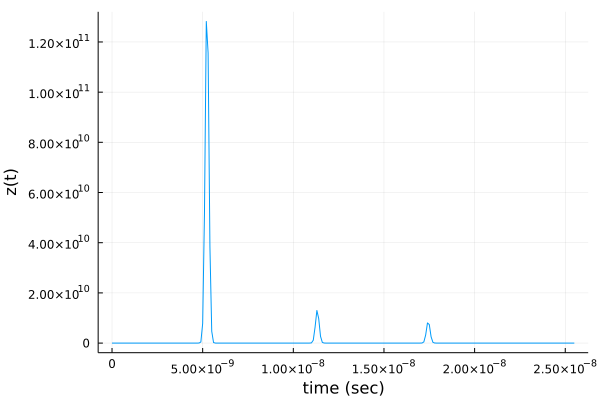
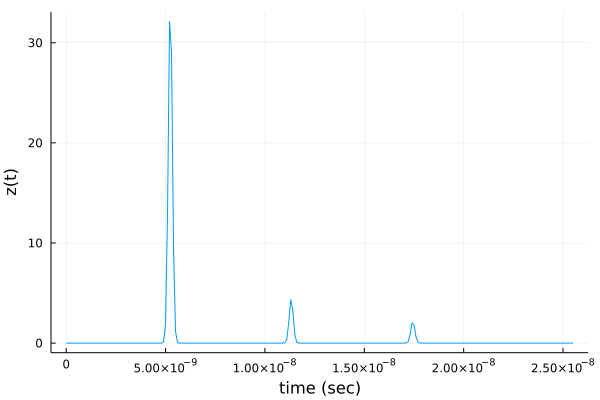
updated scenario C plots and formulation

diff --git a/docs/src/omniDirectionalLTI/omnidirLTIsource.md b/docs/src/omniDirectionalLTI/omnidirLTIsource.md
@@ -92,7 +92,7 @@ inverse2Dplot([q],[r],[z],f)
 * single stationary omnidirectional source
 * single stationary omnidirectional receiver
 * single stationary ideal point reflector
-* the source emits an ideal impulse
+* the source emits an impulse
 
 Given the scenario B assumptions, we simulated the geometry of scenario as follows.
 
@@ -124,11 +124,11 @@ We obtained the closed form expression of the observed signal, $z(t)$ as follows
 
 $z(t) = \alpha_0 \mathrm{A}\left(\frac{\|\bm{p}_\mathrm{r}-\bm{\xi}_0\|}{\mathrm{c}}\right)
 \mathrm{A}\left(\frac{\|\bm{\xi}_0-
-\bm{p}_\mathrm{s}\|}{\mathrm{c}}\right) δ\left(t-
+\bm{p}_\mathrm{s}\|}{\mathrm{c}}\right) p\left(t-
 \frac{\|\bm{p}_\mathrm{r}-\bm{\xi}_0\|+\|\bm{\xi}_0-
 \bm{p}_\mathrm{s}\|}{\mathrm{c}}\right)$
 
-We plot signal at the receiver as follows.
+We plot the signal at the receiver as follows.
 
 ```julia
 using LTVsystems
@@ -177,32 +177,54 @@ inverse2Dplot([q],[r],[z],f)
 * single stationary omnidirectional source
 * single stationary omnidirectional receiver
 * multiple stationary ideal point reflectors
-* the source emits an ideal impulse
+* the source emits an impulse
+
+Given the scenario C assumptions, we simulated the geometry of scenario as follows.
+
+![](https://raw.githubusercontent.com/NMSU-ISA/LTVsystems/main/docs/src/assets/scenarioC.png)
 
 ### Forward Modeling
 
-Given the scenario C assumptions with the position of the source $𝐩ₛ$ and the receiver $𝐩ᵣ$, by providing the transmitted signal, $p(t)=δ(t)$ as an ideal impulse and multiple stationary reflectors say N. We obtained the closed form expression of the observed signal, $z(t)$ as follows.
+For scenario C, given the position of the source $𝐩ₛ$, the receiver $𝐩ᵣ$, by providing the transmitted signal $p(t)$, and multiple stationary reflectors say N, we obtained the expression for the reflector function as follows
+
+$f(\bm{\xi}) = \sum\limits_{n=1}^{N}\alpha_n \delta(\bm{\xi} - \bm{\xi}_n)$
+
+The signal observed at position $\bm{\xi}$ and time $t$ due to the source emitting from position $\bm{p}_\mathrm{s}$ is given as follows.
+
+$q(\bm{\xi},t)=\mathrm{A}\left(\frac{\|\bm{\xi}-\bm{p}_\mathrm{s}\|}
+{\mathrm{c}}\right) p\left(t-\frac{\|\bm{\xi}-\bm{p}_\mathrm{s}\|}{\mathrm{c}}\right)$
+
+Mathematically, we defined the reflection due to the source as follows.
+
+$r(\bm{\xi},t) = \sum\limits_{n=1}^{N}\alpha_n \delta(\bm{\xi} - \bm{\xi}_n)
+\mathrm{A}\left(\frac{\|\bm{\xi}-\bm{p}_\mathrm{s}\|}
+{\mathrm{c}}\right) p\left(t-\frac{\|\bm{\xi}-\bm{p}_\mathrm{s}\|}{\mathrm{c}}\right)$
+
+Now the signal observed at $\bm{p}_\mathrm{r}$ due to the reflection from the position $\bm{\xi}$ is given as follows.
+
+$\psi(\bm{\xi},t) = \mathrm{A}\left(\frac{\|\bm{p}_\mathrm{r}-\bm{\xi}\|}{\mathrm{c}}\right) r\left(\bm{\xi},t-\frac{\|\bm{p}_\mathrm{r}-\bm{\xi}\|}{\mathrm{c}}\right)$
+
+
+We obtained the closed form expression of the observed signal, $z(t)$ as follows.
 
 $z(t) = \sum\limits_{n=1}^{N} \alpha_n \mathrm{A}\left(\frac{\|\bm{p}_\mathrm{r}-\bm{\xi}_n\|}{\mathrm{c}}\right)
 \mathrm{A}\left(\frac{\|\bm{\xi}_n-\bm{p}_\mathrm{s}\|}{\mathrm{c}}\right)
-δ\left(t-\frac{\|\bm{p}_\mathrm{r}-\bm{\xi}_n\|+\|\bm{\xi}_n-\bm{p}_\mathrm{s}\|}{\mathrm{c}}\right)$
+p\left(t-\frac{\|\bm{p}_\mathrm{r}-\bm{\xi}_n\|+\|\bm{\xi}_n-\bm{p}_\mathrm{s}\|}{\mathrm{c}}\right)$
 
-We can simulate the scenario and plot signal at the receiver as follows.
+We plot the signal at the receiver as follows.
 
 ```julia
-using ISA, LTVsystems
+using LTVsystems
 using Plots
 𝐩ₛ =  [0.3, 0.3]
 𝐩ᵣ =  [0.9, 0.9]
-p(t) = δ(t,1.0e-10)
+p(t) = δn(t,1.0e-10)
 q = LTIsourceO(𝐩ₛ, p)
 α₁ = 0.7; 𝛏₁ = [0.9,0.0]
-R₁ = LTIsourceO(𝛏₁, t->α₁*q(𝛏₁,t))
-α₂ = 0.3; 𝛏₂ = [1.8,1.8]
-R₂ = LTIsourceO(𝛏₂, t->α₂*q(𝛏₂,t))
+α₂ = 0.4; 𝛏₂ = [1.8,1.8]
 α₃ = 0.5; 𝛏₃ = [2.7,-0.9]
-R₃ = LTIsourceO(𝛏₃, t->α₃*q(𝛏₃,t))
-z = LTIreceiverO([R₁,R₂,R₃],𝐩ᵣ)
+r = pointReflector([𝛏₁,𝛏₂,𝛏₃],[α₁,α₂,α₃],[q])
+z = LTIreceiverO(r,𝐩ᵣ)
 t = collect(0.0:1.0e-10:25.5e-9)
 plot( t, z(t), xlab="time (sec)", ylab="z(t)", legend=:false)
 ```
@@ -210,7 +232,7 @@ plot( t, z(t), xlab="time (sec)", ylab="z(t)", legend=:false)
 
 ### Inverse Modeling
 
-Given the scenario C assumptions, we obtained the received signal, $z(t)$. Now we can estimate the reflector function as follows.
+Given the scenario C assumptions, we obtained the received signal, $z(t)$. Now we can estimate the reflector function by considering the transmitted signal $p(t)=δ(t)$ as follows.
 
 $\hat{f}(\bm{\xi}) = \dfrac{z\left(\frac{\|\bm{p}_\mathrm{r}-
 \bm{\xi}\|+\|\bm{\xi}-\bm{p}_\mathrm{s}\|}{\mathrm{c}}\right)}
@@ -218,33 +240,19 @@ $\hat{f}(\bm{\xi}) = \dfrac{z\left(\frac{\|\bm{p}_\mathrm{r}-
 \mathrm{A}(\frac{\|\bm{p}_\mathrm{r}-\bm{\xi}\|}{\mathrm{c}})}$
 
 ```julia
-using ISA, LTVsystems
-using Plots
+using LTVsystems
 𝐩ₛ =  [0.3, 0.3]
 𝐩ᵣ =  [0.9, 0.9]
-p(t) = δ(t,1.0e-10)
+p(t) = δn(t,1.0e-10)
 q = LTIsourceO(𝐩ₛ, p)
 α₁ = 0.7; 𝛏₁ = [0.9,0.0]
-R₁ = LTIsourceO(𝛏₁, t->α₁*q(𝛏₁,t))
-α₂ = 0.3; 𝛏₂ = [1.8,1.8]
-R₂ = LTIsourceO(𝛏₂, t->α₂*q(𝛏₂,t))
+α₂ = 0.4; 𝛏₂ = [1.8,1.8]
 α₃ = 0.5; 𝛏₃ = [2.7,-0.9]
-R₃ = LTIsourceO(𝛏₃, t->α₃*q(𝛏₃,t))
-z = LTIreceiverO([R₁,R₂,R₃],𝐩ᵣ)
-a₀(ξ::Vector{Float64}) = A(distBetween(ξ,𝐩ₛ)./lightSpeed).*A(distBetween(𝐩ᵣ,ξ)./lightSpeed)
-f(ξ::Vector{Float64})=(z((distBetween(ξ,𝐩ₛ) .+ distBetween(𝐩ᵣ,ξ))./lightSpeed))./(a₀(ξ::Vector{Float64}))
-Δpos = 0.01
-x_range = collect(-5:Δpos:5)
-y_range = collect(-4:Δpos:4)
-xyGrid = [[x, y] for x in x_range, y in y_range]
-val = [f(𝐮) for 𝐮 ∈ xyGrid]
-p2 = plot(x_range,y_range,transpose(val),st=:surface,camera=(0,90),
-         aspect_ratio=:equal,legend=true,zticks=false,bg = RGB(0.1, 0.1, 0.1))
-scatter!(p2,[𝐩ₛ[1]], [𝐩ₛ[2]],markersize = 8.5,color = :green, marker=:pentagon, label='s' )
-scatter!(p2,[𝐩ᵣ[1]], [𝐩ᵣ[2]],markersize = 5.5, color = :blue, marker=:square, label='r' )
-scatter!(p2,[𝛏₁[1]],[𝛏₁[2]],markersize = 8.5,color = :red, marker=:star8, label='t')
-scatter!(p2,[𝛏₂[1]],[𝛏₂[2]],markersize = 8.5,color = :red, marker=:star8, label='t')
-scatter!(p2,[𝛏₃[1]],[𝛏₃[2]],markersize = 8.5,color = :red, marker=:star8, label='t')
+r = pointReflector([𝛏₁,𝛏₂,𝛏₃],[α₁,α₂,α₃],[q])
+z = LTIreceiverO(r,𝐩ᵣ)
+f(ξ::Vector{Float64}) = (z((norm(ξ-𝐩ₛ).+norm(𝐩ᵣ-ξ))./c))./
+                         A(norm(ξ-𝐩ₛ)./c).*A(norm(𝐩ᵣ-ξ)./c)   
+inverse2Dplot([q],r,[z],f)
 ```
 ![](https://raw.githubusercontent.com/NMSU-ISA/LTVsystems/main/docs/src/assets/scenarioC_simulation.png)
 
